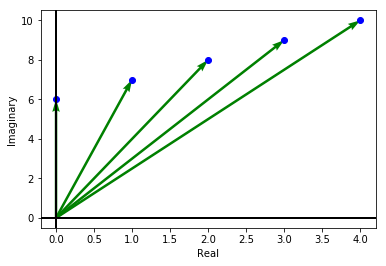
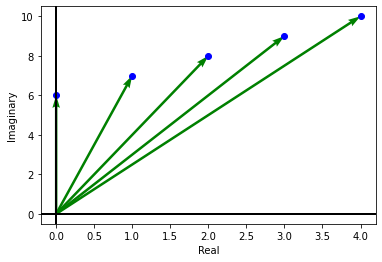
change made.

diff --git a/docs/complex-analysis/cauchy-theorem.md b/docs/complex-analysis/cauchy-theorem.md
@@ -1,50 +1,50 @@
 # Cauchy Theorem
 
-## Simply connectd domain
+## Simply and Multiply Connected Domains
 
-**Def:** A domain $D\subseteq \mathbb{ C }$ is simply connected if $D$ has no holes $ \Leftrightarrow C \setminus D$ is connected.
+`Simply Connected Domain`
 
-A domain that is not simply connected  is called  multiply connected.
+:   A domain $D\subseteq \mathbb{ C }$ is simply connected if $D$ has no holes $\Leftrightarrow C \setminus D$ is connected.
 
-!!! success "Cauchy Theorem"
-      Let $D \subseteq C$ be  simply connected domain and $f:D\to  \mathbb{ C } $  is any analytic  function .Then for any closed  contour $\gamma$ in $D$ , We have
-      $$\int_\gamma f(z) dz=0$$
+`Multiply Connected Domain`
+
+:   A domain that is not simply connected  is called  multiply connected.
+
+
+## Cauchy Theorem
+
+**Theorem:** Let $D \subseteq C$ be  simply connected domain and $f:D\to  \mathbb{C}$  is any analytic  function. Then for any closed  contour $\gamma$ in $D$ , We have
+      \begin{align}\int_\gamma f(z) dz=0\end{align}
 
 **Proof:** Let  $f(z)= u(x,y) + iv(x,y)$ and the contour
-$$
+
 \begin{align}
-\gamma(t) &= x(t) + i y(t);& t\in [a,b]\\
-\gamma'(t) &= x'(t) + i y'(t)&
+      \gamma(t) &= x(t) + i y(t);& t\in [a,b]\\
+      \gamma'(t) &= x'(t) + i y'(t)&
 \end{align}
-$$
+
 
 Now the integration will be
 
-$$
-\require{cancel}
 \begin{align}
 \int_\gamma f(z) dz &= \int_a^b f(\gamma(t))\gamma'(t)dt \\
                     &= \int_a^b (u(x,y) + iv(x,y)) (x' + iy') dt\\
                     &= \int_a^b (ux'-vy') dt + i\int_a^b(vx'+uy') dt \\
                     &= \oint_\gamma udx - vdy  + i \oint_\gamma vdx  +udy
 \end{align}
-$$
+
 Now usign green theorem, we get the follwoing integral as
 
-$$
 \begin{align}
 \phantom{\int_\gamma f(z) dz} &=  \iint\limits_{R}(-v_x - u_y)dy dx  +\iint\limits_{R}(u_x - v_y) dy dx
 \end{align}
-$$
 
 Since $f$ is analytic, hence it will satisfy the CR-equation, $i.e.,$ $u_x=v_y$ and $v_x=-u_y$
 
-$$
 \begin{align}
-\phantom{\int_\gamma f(z) dz} &= \iint\limits_{R}\cancelto{0}{(-v_x - u_y)}dy dx  +\iint\limits_{R}\cancelto{0}{(u_x - v_y)} dy dx\\
+\phantom{\int_\gamma f(z) dz} &= \iint\limits_{R}(-v_x - u_y)dy dx  +\iint\limits_{R}(u_x - v_y) dy dx\\
                     &= 0.
 \end{align}
-$$
 
 **Ex:** Find the following integration
 
@@ -58,5 +58,3 @@ For (1), the function $\displaystyle f(z) = \frac{ e^z }{ z^2-9 }$ is analytic i
 For (2), the function $\displaystyle f(z) = \frac{ 2z+1 }{ e^z }$ is analytic in entire complex plane, hence by Cauchy theorem, the integration will be $0$.
 
 **Note:** A function of the form of $f/g$ is analytic everywhere except $g=0$, provided $f$ and $g$ are analytic.
-
-Credits: Pinku Kumar

diff --git a/docs/complex-analysis/plotting.md b/docs/complex-analysis/plotting.md
@@ -22,6 +22,12 @@ Addition and substraction of complex numbers in Argand plane are similar to the 
     
 
 
+
+    
+![png](plotting_files/plotting_6_0.png)
+    
+
+
 ## Multiplication in Complex Numbers
 
 If we multiply two complex number $z_1=r_1e^{i\theta_1}$ and $z_2=r_2e^{i\theta_2}$, then we get 
@@ -30,8 +36,32 @@ $$z_1\cdot z_2 = r_1\cdot r_2 e^{i (\theta_1 + \theta_2)}$$
 
 Hence in polar coordinate, the magnitude will get multiplies while angle will get added.
 
+
+    
+![png](plotting_files/plotting_8_0.png)
+    
+
+
+
+    
+![png](plotting_files/plotting_9_0.png)
+    
+
+
 ## Sequence and Series in Complex Numbers
 
 Similar to real sequance, a complex sequence in simple a function $f: \mathbb{N} \to \mathbb{C}$.
 
+
+    
+![png](plotting_files/plotting_11_0.png)
+    
+
+
 Example of a diverging sequence.
+
+
+    
+![png](plotting_files/plotting_13_0.png)
+    
+

diff --git a/docs/complex-analysis/cauchy-integral-formula.md b/docs/complex-analysis/cauchy-integral-formula.md
@@ -1,29 +1,29 @@
 # Cauchy integral formula
-**Thm:** Let $\Gamma$ be a simple closed positively  oriented contour. If $f$ is analytic in some simply connected domain $D$ contain $\Gamma$, and $z_0$ is any point inside $\Gamma$, then
+**Theorem:** Let $\Gamma$ be a simple closed positively  oriented contour. If $f$ is analytic in some simply connected domain $D$ contain $\Gamma$, and $z_0$ is any point inside $\Gamma$, then
 $$f(z_0)= \frac{ 1 }{2\pi i }\int _\Gamma  \frac{ f(z) }{ z-z_0 }dz $$
 
 **Proof:** For sufficiently  small $r>0$, $\gamma :\vert z-z_0 \vert =r,$ positively oriented lies inside $\Gamma,$ then by deformation theorem, we have
 
-$$\int _\Gamma  \frac{ f(z) }{ z-z_0 }=\int_\gamma \frac{ f(z) }{ z-z_0 }dz $$
+$$\int _\Gamma  \frac{ f(z) }{ z-z_0 }=\int_\gamma \frac{ f(z) }{ z-z_0 }dz$$
 
 Now,
 
-$$
+
 \begin{align}
 \int _\gamma \frac{ f(z) }{ z-z_0 } dz
 &=\int _\gamma \frac{f(z)-f(z_0) + f(z_0)}{ z-z_0 } dz \\
 &=\int _\gamma \frac{ f(z) }{ z-z_0 }dz+ \int_\gamma \frac{f(z)-f(z_0) }{ z-z_0 } dz \\
 &= f(z_0) \cdot 2\pi i + \int _\gamma \frac{ f(z)-f(z_0) }{ z-z_0 }dz
 \end{align}
-$$
+
 
 In order to find the second integral, consider the following expression,
 
-$$\left \vert \frac{ f(z)-f(z_0 ) }{ z-z_0  } \right \vert = \frac{ \vert f(z)-f(z_0 )\vert}{ r }\leq \frac{ M_r }{ r } $$
+$$\left \vert \frac{ f(z)-f(z_0 ) }{ z-z_0  } \right \vert = \frac{ \vert f(z)-f(z_0 )\vert}{ r }\leq \frac{ M_r }{ r }$$
 
 Using the above inequality, the integral will be
 
-$$\require{cancel}
+
 \begin{align}
 \left \vert \int_\gamma \frac{ f(z)-f(z_0 ) }{ z-z_0  } \right \vert
 &\leq \frac{ M_r }{ r } \int_\gamma \vert dz \vert \\
@@ -31,7 +31,7 @@ $$\require{cancel}
 &= \frac{ M_r }{ \cancel{r} }\cdot 2\pi \cancel{r} \\
 &= 2\pi \cdot M_r
 \end{align}
-$$
+
 
 But $f$ is continuous at $z_0$, hence taking the limit $r\to 0$, we get
 

diff --git a/docs/complex-analysis/assignments.md b/docs/complex-analysis/assignments.md
@@ -2,8 +2,10 @@
 
 As a part of continuous assessment you have to submit the assignment
 
-| S. No. | Donwload Link                  | Due Date       |
-|--------|--------------------------------|----------------|
-| 1      |  [Download](PDFs/201719A1.pdf) |   15/05/2019   |
-| 2      |  [Download](PDFs/201719A2.pdf) |   06/07/2019   |
-| 2      |  [Download](PDFs/201719A3.pdf) |   10/08/2019   |
+| S. No. | Donwload Link              |
+|--------|----------------------------|
+| 1      |  [Download](PDFs/A061.pdf) |
+| 2      |  [Download](PDFs/A062.pdf) |
+| 2      |  [Download](PDFs/A063.pdf) |
+
+

diff --git a/docs/complex-analysis/video.md b/docs/complex-analysis/video.md
@@ -10,8 +10,8 @@
 
 <video width="432" height="288" controls autoplay loop>
[8 lines of base64/hex data omitted]
@@ -482,7 +482,7 @@ AAD9AAABFgAAAKEAAACHAAABPwAAAIAAAAD9AAAAlQAAAH0AAAEEAAABJQAAAJAAAAB8AAABQQAA
[3 lines of base64/hex data omitted]
-ZGF0YQAAAAEAAAAATGF2ZjU4Ljc2LjEwMA==
+ZGF0YQAAAAEAAAAATGF2ZjU5LjI3LjEwMA==
 ">
   Your browser does not support the video tag.
 </video>

diff --git a/docs/complex-analysis/integration.md b/docs/complex-analysis/integration.md
@@ -1,7 +1,10 @@
 A contour is a finite collection of paths joined end to end. A path can be represented as a continuous function form an closed iterval to $\mathbb{C}$ as follows 
+
 $$ \gamma: [a~ b]\subset \mathbb{R} \to \mathbb{C}; \quad \gamma = \gamma(t)$$ 
+
 Then the integration of any complex function along this path is is given by 
-$$\int_\gamma f(z)dz = \int_a^b f(t)~\gamma'(t)~dt = \sum_{i=1}^n f(t_i) \left[\gamma(t_i)-\gamma(t_{i-1})\right] $$
+
+$$\int_\gamma f(z)dz = \int_a^b f(t)~\gamma'(t)~dt = \sum_{i=1}^n f(t_i) \left[\gamma(t_i)-\gamma(t_{i-1})\right]$$
 
 **Question:** Find the integration of $f(z)=z^2$ along the parabolic path from $0$ to $1$.
 